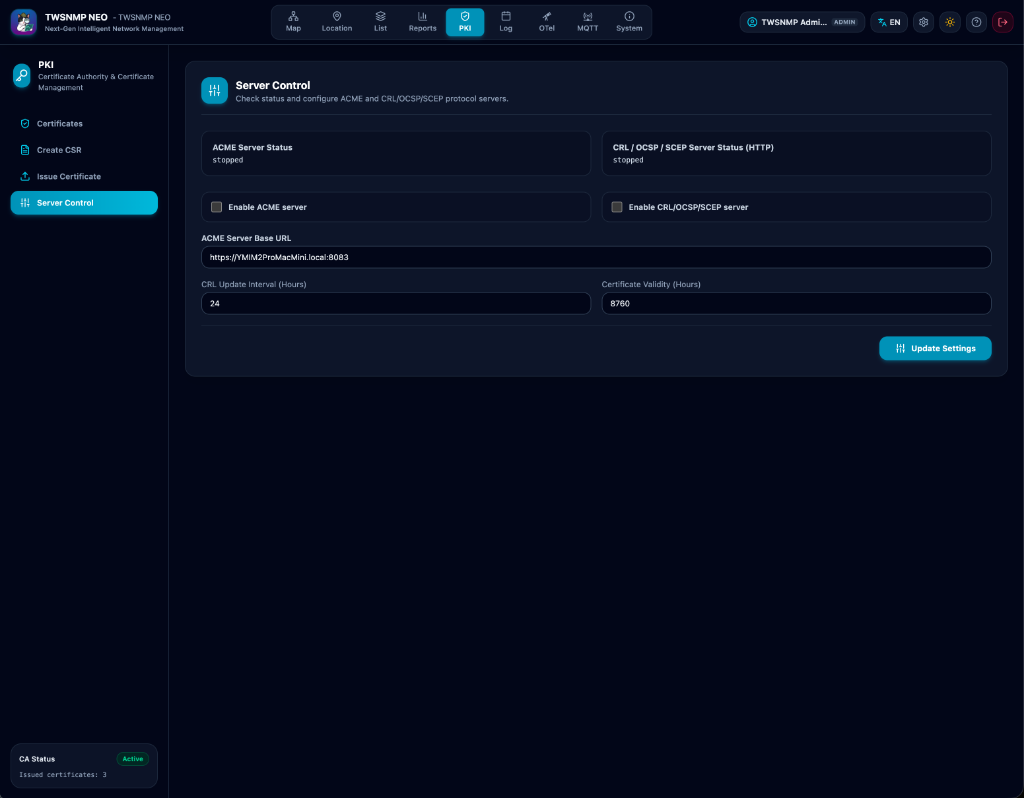
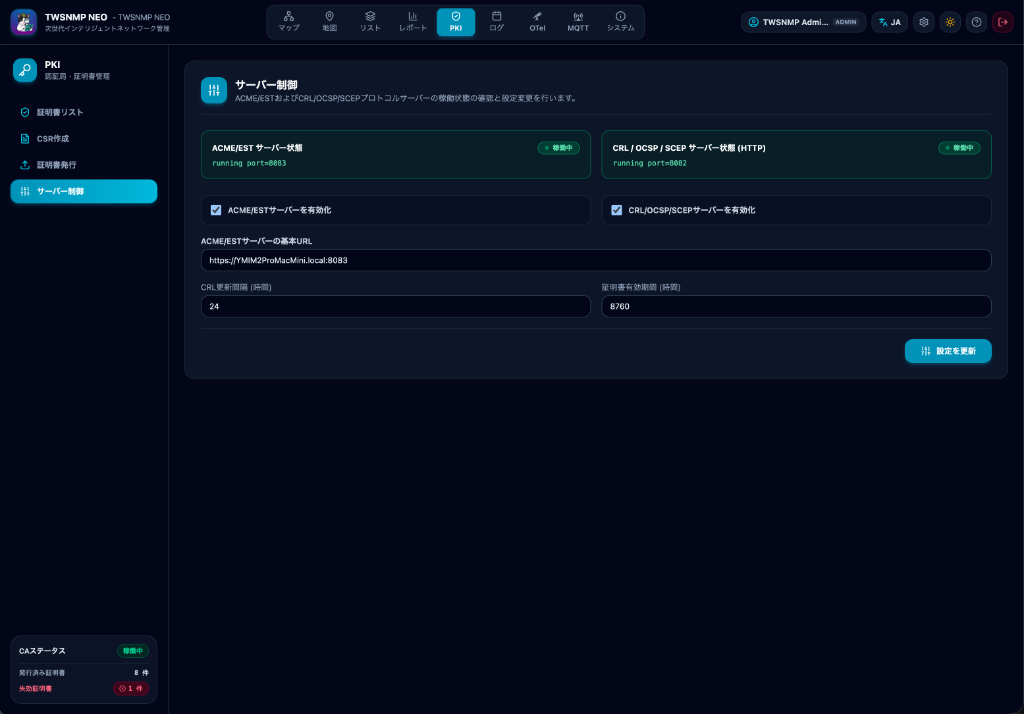
docs: update PKI server control screenshot and documentation for v0.2.0

diff --git a/docs/index_ja.md b/docs/index_ja.md
@@ -416,6 +416,8 @@ TWSNMP NEO は、外部の証明書管理ツールなしで動作する完全な
 - **ACME サーバー (ポート 8083)**: RFC 8555 準拠の自動証明書管理プロトコル（Let's Encrypt 互換）。
 - 稼働状態のリアルタイム確認（稼働状態に応じた背景色表示）およびポート・有効期間・更新間隔の即時設定変更。
 
+![](./images/ja/pki_server_control.png)
+
 ### ACME 自動更新クライアント & サーバー証明書
 TWSNMP NEO 自体の Web UI を HTTPS (TLS) で運用する際、Let's Encrypt などのパブリック ACME サーバーや内蔵 ACME サーバーから証明書を自動取得・自動更新する ACME クライアント機能（lego 統合）を搭載。既存の PEM 証明書・秘密鍵ファイルの指定や、TWSNMP FC からの証明書インポートにも対応しています。
 

diff --git a/docs/index.md b/docs/index.md
@@ -405,6 +405,8 @@ Simultaneously generate private keys and CSRs with immediate ZIP package downloa
 - **ACME Listener (Port 8083)**: RFC 8555-compliant Automated Certificate Management Environment (Let's Encrypt compatible).
 - Real-time service status monitoring with status-aware background coloring and immediate runtime configuration updates.
 
+![](./images/en/pki_server_control.png)
+
 ### ACME Auto-Renewal Client & TLS Certificates
 When operating TWSNMP NEO over HTTPS (TLS), the built-in ACME client (powered by lego) can automatically acquire and renew certificates from public ACME providers like Let's Encrypt or the internal ACME server. It also supports manual PEM certificate/key file paths and seamless certificate migration from TWSNMP FC.
 
